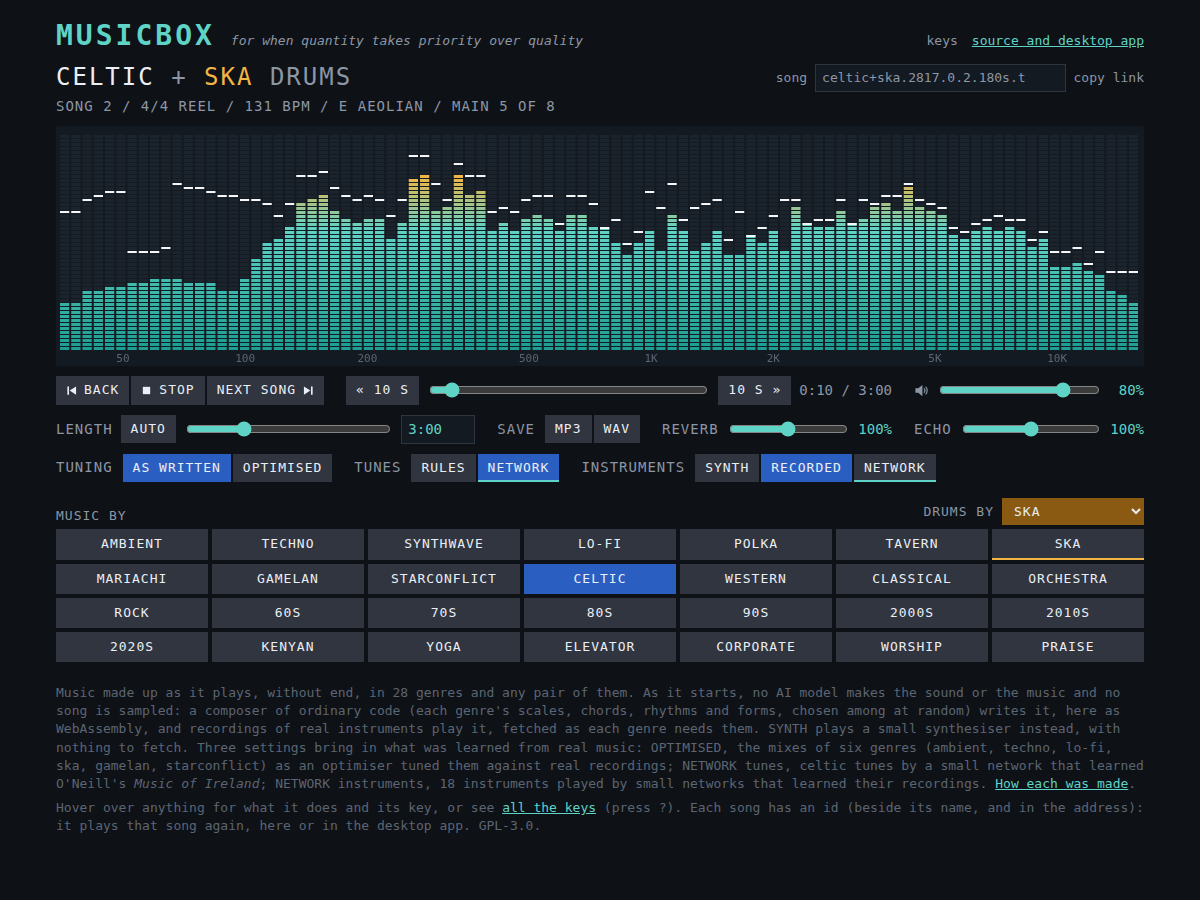
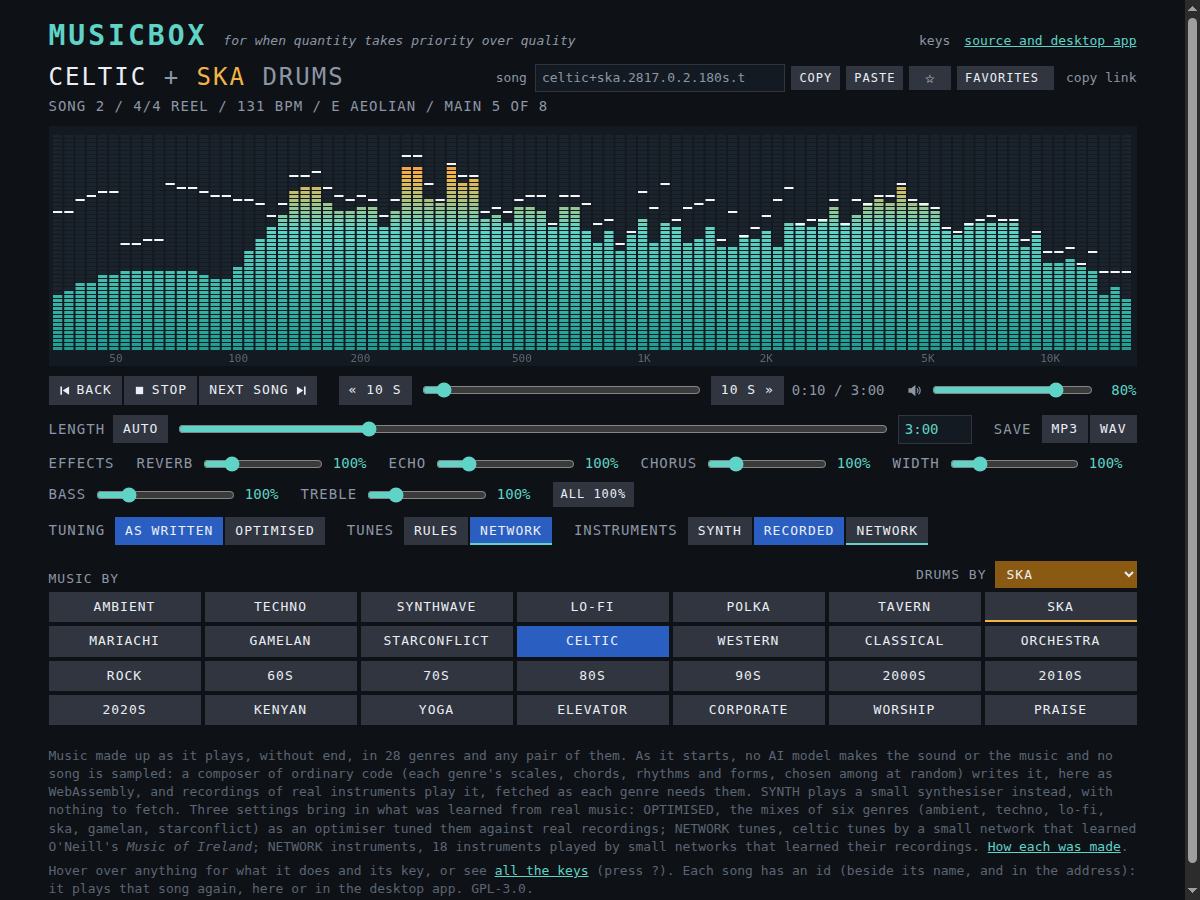
README: the six effects (a table of what 0 and past 100% do, and how loud), copying, pasting and favorites, the new keys and flags; its pictures taken again with the id's buttons, EFFECTS and the page's effects row

diff --git a/README.md b/README.md
@@ -8,7 +8,7 @@ Music made up as it plays, without end, in 28 genres and any pair of them. It pl
 
 **[Play it in your browser](https://bhoult.github.io/musicbox/)**: no install; it plays recordings of real instruments, fetched as each genre needs them, or a synthesiser with nothing to fetch.
 
-[![The browser version: celtic music with ska drums, its tunes by the network and its instruments recorded; the song's id, the equalizer, the transport, the song's bar, the volume, the length, saving, the reverb and echo, the three settings and the genre selector](docs/web.png)](https://bhoult.github.io/musicbox/)
+[![The browser version: celtic music with ska drums, its tunes by the network and its instruments recorded; the song's id with COPY, PASTE, the favorite's star and FAVORITES, the equalizer, the transport, the song's bar, the volume, the length, saving, the six effects, the three settings and the genre selector](docs/web.png)](https://bhoult.github.io/musicbox/)
 
 As it comes, no AI model makes any of the sound or the music, and no song is sampled. The music comes from a composer that is ordinary code: for each genre, rules for its scales, chords, rhythms, song forms and who plays what, and a random number generator choosing among them. It is generated at random and without end by software that an AI wrote. A genre and a seed always give the same music.
 
@@ -26,6 +26,7 @@ target/release/musicbox lo-fi --eq         # with an equalizer in the terminal
 target/release/musicbox ska --length 3:00  # each song three minutes long
 target/release/musicbox techno --volume 60 # quieter (0 to 100)
 target/release/musicbox rock --reverb 160 --echo 140   # a bigger room, and an echo on the tunes
+target/release/musicbox lo-fi --bass 200 --width 300   # twice the bass, wider than the speakers
 target/release/musicbox --export celtic reel.mp3 --seed 7 --song 2   # one song, to an MP3
 target/release/musicbox ska.2817.1.2       # a song by its id, and on from it
 target/release/musicbox --export ska.2817.1.2 ska.mp3                # a song by its id, to an MP3
@@ -43,13 +44,14 @@ The terminal shows what is playing and the keys, redrawn in place:
   song 2 · 4/4 reel · 131 bpm · C ionian · main, bar 3 of 8 · 0:07 / 3:00
   ‹ polka tavern ska mariachi gamelan starconflict celtic western classical orchestra rock 60s 70s 80s
   ←/→ genre  ↑/↓ drums  space next song  b back  , . 10 s back and on
-  s stop  r replay  x export mp3  d type a song's id  q quit
+  s stop  r replay  x export mp3  c copy its id  d v type or paste one  k keep it  q quit
   [ ] length 3:00  - + volume 100%  t type a length  e equalizer  g window
-  7 8 reverb 100%  9 0 echo 100%  (100%: the genre's own)
+  7 8 reverb 100%  9 0 echo 100%  ; ' chorus 100%  (100%: as the genre has it)
+  5 6 width 100%  1 2 bass 100%  3 4 treble 100%
   o tuning as written  m tunes rules  i instruments recorded
 ```
 
-The top line ends with the song's id ([below](#song-ids)). The third line is the genre selector: the genre writing the music is lit, and the drummer is underlined. A terminal too narrow for all 28 shows a window of them about the genre playing, ‹ marking that some come before. The song line gives the piece's number, meter and form, tempo, key and mode, its section and bar, how long it has played, and the length asked of it. The last line is how the music is made ([below](#how-it-is-made)), with a note where a choice does nothing for the genre playing (celtic alone has network tunes, for one).
+The top line ends with the song's id ([below](#song-ids)), a ★ before it when the song is one of your [favorites](#copy-paste-and-favorites). The third line is the genre selector: the genre writing the music is lit, and the drummer is underlined. A terminal too narrow for all 28 shows a window of them about the genre playing, ‹ marking that some come before. The song line gives the piece's number, meter and form, tempo, key and mode, its section and bar, how long it has played, and the length asked of it. The last line is how the music is made ([below](#how-it-is-made)), with a note where a choice does nothing for the genre playing (celtic alone has network tunes, for one).
 
 | key | |
 | --- | --- |
@@ -62,10 +64,14 @@ The top line ends with the song's id ([below](#song-ids)). The third line is the
 | R | replay: the song playing, from its start again |
 | [ / ] | each song 15 s shorter or longer (from auto: about the song's own length; below 0:30, auto again) |
 | - / + (also =) | the volume down or up, 5% a step ([below](#volume)) |
-| 7 / 8 | less or more reverb, 10% a step ([below](#reverb-and-echo)) |
-| 9 / 0 | less or more echo, 10% a step |
+| 7 / 8, 9 / 0, ; / ' | less or more reverb, echo and chorus, 10% a step ([below](#effects)) |
+| 5 / 6, 1 / 2, 3 / 4 | less or more stereo width, bass and treble, 10% a step |
+| A | the window's effects, shown or put away |
 | T | type a length: 3:30, 3.5m, 210s, or auto; Enter sets it, Esc cancels |
-| D | type a song's id: Enter plays it, Esc cancels |
+| C (also Ctrl-C in the window) | copy the song's id ([below](#copy-paste-and-favorites)) |
+| V (also Ctrl-V in the window) | play the song whose id is copied (in the terminal: type or paste it, as D) |
+| D | type a song's id (or paste it): Enter plays it, Esc cancels |
+| K | keep the song among the favorites, or let it go |
 | X | export the song playing, from its start to its end, to an MP3 in ~/Music/musicbox |
 | O | tuning: as written, or optimised |
 | M | tunes: by the rules, or by the network |
@@ -79,16 +85,18 @@ A change waits for the next bar line, or the next beat when bars are long, and t
 
 ## The window
 
-![The window: mariachi drummed by techno, on network instruments; the equalizer, the transport, the three settings, the genre selector, and the reverb, echo and volume](docs/window.png)
+![The window: mariachi drummed by techno, on network instruments; the song's id with COPY, PASTE, the favorite's star and FAVORITES, the equalizer, the transport, the three settings, the genre selector, EFFECTS and the volume](docs/window.png)
 
 `--gui` or G opens it. It has six parts:
 
-- **What is playing:** the genres and the song's id (click it to type one to play), then the terminal's song line, less the time, which the bar below shows. A genre or drummer just chosen shows at the right until the next bar brings it in.
+- **What is playing:** the genres and the song's id (click it to copy it), with COPY, PASTE, a star (lit when the song is a favorite: click to keep it or let it go) and FAVORITES at the name's right ([below](#copy-paste-and-favorites)), then the terminal's song line, less the time, which the bar below shows. A genre or drummer just chosen shows at the line's right until the next bar brings it in.
 - **Where in the song:** a bar to click, or drag and let go, to go to a point in the song, between buttons 10 s back and on, and the time played of the song's length.
 - **The equalizer:** what the speakers are playing, in LED bars from 35 Hz to 16 kHz with peak markers. Each bar is the loudest part of its band in an 85 ms window, tilted up 3 dB an octave so the highs show.
 - **The transport and the length:** BACK, STOP / START, NEXT SONG and EXPORT MP3 (R replays the song, as BACK does after its first seconds), then the songs' length: AUTO (each song as long as it was written), a slider from 0:30 to 10:00 (drag it, click it, or turn the mouse wheel over it), and a field to type a length into (click it, or press T).
 - **How it is made:** TUNING (AS WRITTEN, OPTIMISED), TUNES (RULES, NETWORK) and INSTRUMENTS (SYNTH, RECORDED, NETWORK), as O, M and I have them. A choice that does something for the genre playing is underlined in the accent colour.
-- **The genre selector:** all 28 genres in one grid: click one to write the music, or right-click it to put it on drums (it is underlined there). DRUMS BY, at the right of the grid's heading, steps the drummer with its arrows, as Up and Down do; it says ITS OWN when the genre writing the music plays its own drums, and a click on the drummer's name goes back to them. Below are buttons for FULLSCREEN (F or F11), CLOSE (Esc), QUIT (Q) and KEYS (? or F1), and the VOLUME: a slider from 0 to 100% (drag it, click it, or turn the mouse wheel over it).
+- **The genre selector:** all 28 genres in one grid: click one to write the music, or right-click it to put it on drums (it is underlined there). DRUMS BY, at the right of the grid's heading, steps the drummer with its arrows, as Up and Down do; it says ITS OWN when the genre writing the music plays its own drums, and a click on the drummer's name goes back to them. Below are buttons for FULLSCREEN (F or F11), CLOSE (Esc), QUIT (Q), KEYS (? or F1) and EFFECTS (A: underlined when one is turned), and the VOLUME: a slider from 0 to 100% (drag it, click it, or turn the mouse wheel over it).
+
+EFFECTS opens the six [effects](#effects) over the top of the equalizer, a slider each with ALL 100% to put them back; FAVORITES opens the list of favorites in its place, a click on one playing it and its X letting it go. Esc puts either away.
 
 The keys work in the window too. The buttons leave them out: rest the mouse on anything and it says what it does and its keys, and ? lists them all. Closing the window leaves the music playing in the terminal. Without a terminal (a launcher, say), closing it quits.
 
@@ -106,9 +114,22 @@ Stop fades out in 30 ms and holds the music where it is; start goes on from ther
 
 `-` and `+` (or `=`) turn it down and up, 5% a step, from 0 to 100%; the window and the page have a slider for it, and `--volume 60` starts at 60%. The scale is cubic, as PulseAudio's volumes are, so each step sounds about as much louder: 50% is an eighth of the full level (−18 dB). A change eases in over the next buffer (85 ms), with no click. It is how loud it plays and nothing more: the equalizer shows the music at its full level, and an export is at full level whatever the volume. The page remembers its volume in the browser; the desktop app starts at 100% (or `--volume`) each time.
 
-## Reverb and echo
+## Effects
 
-Each genre has a reverb and many an echo of their own, and REVERB and ECHO (sliders in the window and on the page, `7` `8` and `9` `0`, `--reverb` and `--echo`) turn them from 0 to 200% of what the genre has. 100% is the genre as it comes, the music to the bit as it was without them; 0 is none. Past 100% the reverb is wetter, four times at 200%, and its tail longer (the genres' own reverbs are quiet: 25 to 35 dB under the music in rock, ska and celtic, which is drier than most records); the echo adds one of its own, three steps behind (a dotted eighth, in time with the song), repeating the lead, keys, arpeggio and bells, its repeats longer the more of it. They change the room, not the music: a song's id stays the same, and an export (X, SAVE, `--export`) is made with them, its tag giving the flags that make it again. The page remembers them in the browser; the desktop app starts at 100% (or the flags) each time.
+Six effects turn what you hear from 0 to 500%, each 10% a step: sliders in the window (EFFECTS, or A) and on the page, the keys below, and flags. 100% is the genre as it comes, the music to the bit as it was without them; 0 is none.
+
+| effect | keys | flag | 0% | past 100% |
+| --- | --- | --- | --- | --- |
+| reverb | `7` `8` | `--reverb` | none | wetter, four times at 200%, its tail longer; at 500% a cathedral's |
+| echo | `9` `0` | `--echo` | none | an echo of its own, three steps behind (a dotted eighth, in time with the song), repeating the lead, keys, arpeggio and bells, its repeats longer the more of it |
+| chorus | `;` `'` | `--chorus` | none | the genre's own (an 80s polysynth's, a pad's) and copies of the keys, pads, guitars, tunes and a little of the bass, swung a little out of tune, wider the more of it |
+| width | `5` `6` | `--width` | mono | the sides louder than the middle: wider than the speakers |
+| bass | `1` `2` | `--bass` | none below about 150 Hz | twice as loud at 200%, five times at 500% |
+| treble | `3` `4` | `--treble` | none above about 3.5 kHz (dull) | twice as loud at 200%, five times at 500% |
+
+The genres' own reverbs are quiet (25 to 35 dB under the music in rock, ska and celtic, drier than most records), and some genres have far more than others, so past 200% the reverb is held to 6 dB over the music and the whole kept as loud as it was at 200%: ambient at 500% is a wash, and rock a hall. The width, bass and treble change the balance, not the loudness: the whole is kept as loud as it came in. The reverb and echo add a little; with all six at 500%, the four genres measured came out 1.4 to 1.9 times as loud as at 100%.
+
+They change the room, not the music: a song's id stays the same, and an export (X, SAVE, `--export`) is made with them, its tag giving the flags that make it again. The page remembers them in the browser; the desktop app starts at 100% (or the flags) each time.
 
 ## Song ids
 
@@ -117,6 +138,8 @@ Every song has an id, shown at the top of the terminal, the window and the page:
 **How exactly.** The networks have fixed weights and their own seeded dice, so nothing in the music is left to chance: a song from its id has the same notes, form, instruments and settings, on the desktop and in the browser alike. The first song of a run comes back to the byte. A later one has the same notes, with small differences in the sound (which recording of a drum plays, the noise) when gone to from its id; an export from its id (`--export ID`, the page's SAVE) plays the songs before it in its run to get there, and is the same to the byte as the song as it first played, in the same build. An id ending in `~` was made after the length changed earlier in its run, or while it played: the songs before it were steered to another length, so its notes may come out otherwise.
 
 **Back and forward.** The songs played are kept in order, the last twelve as each began. B plays the song playing from its start, or, in its first 3 seconds, the one before it; after going back, the next song is the one that came next (as it played, with its length and settings), until another genre or song is chosen. These come back as they played, at once.
+
+**Copy, paste and favorites.** COPY (C, or a click on the id) puts the song's id on the clipboard; PASTE (V) plays the song whose id is there. What is pasted can be the id, a link to the page playing it (COPY LINK makes one), or a command with it in (`musicbox ska.2817.1.2`). On the page Ctrl-V anywhere but a field plays it too, and Ctrl-C with nothing chosen copies the id; in the window Ctrl-C and Ctrl-V do, and Ctrl-V pastes into the field D opens. The terminal copies by asking the terminal (OSC 52, which most allow); to paste there, press D or V and paste. The star (K) keeps the song among the favorites, or lets it go; FAVORITES lists them, a click playing one. The desktop app keeps them in `~/.local/share/musicbox/favorites.txt`, an id a line with the genre after it (edit it as you like: the first word of a line is its id, and the rest is kept); the page keeps its own in the browser, and its COPY ALL copies them, a line each, to paste into that file.
 
 **A point in a song.** The window's and the page's bar, and , and . (10 s back and on), go to a point in the song playing: the bars before it are composed again from the song's start, not played, so the music goes on at once from the start of the bar then, with a short crossfade.
 
@@ -133,7 +156,7 @@ target/release/musicbox --export GENRE OUT.mp3 --seed SEED --song K [--length L]
 
 ## In the browser
 
-[bhoult.github.io/musicbox](https://bhoult.github.io/musicbox/) is the same composer and synthesiser compiled to WebAssembly (1.5 MB): the genres and mixes, the equalizer, the genre selector, the transport with back and forward, the bar to go to a point in the song, the length, the volume, the reverb and echo, the three settings, song ids and the keys as the window has them. The genres are one grid, as in the window, with the drummer chosen from a list beside its heading (or by right-clicking a genre). The song's id is in a field beside its name: paste or type one there and press Enter to play it, or COPY LINK for a link that plays it. Whatever the mouse rests on says what it does and its keys, and ? lists them all. SAVE MP3 (X) saves an MP3 of the song playing, named by its id, with the desktop's tag; WAV (shift-X) saves a WAV. The page encodes it with LAME too, compiled to WebAssembly (`docs/app/mp3/`, 133 kB, fetched with the first export), at a constant 192 kb/s: that build writes no info frame, which a VBR file needs for players to tell its length. The engine runs in a Web Worker a few tenths of a second ahead of an AudioWorklet that plays it, so writing a bar or starting a song never stalls the sound.
+[bhoult.github.io/musicbox](https://bhoult.github.io/musicbox/) is the same composer and synthesiser compiled to WebAssembly (1.5 MB): the genres and mixes, the equalizer, the genre selector, the transport with back and forward, the bar to go to a point in the song, the length, the volume, the six effects, the three settings, song ids, favorites and the keys as the window has them. The genres are one grid, as in the window, with the drummer chosen from a list beside its heading (or by right-clicking a genre). The song's id is in a field beside its name, with COPY, PASTE, the star, FAVORITES and COPY LINK (a link that plays it); type an id into the field and press Enter, or press Ctrl-V anywhere, to play it. Whatever the mouse rests on says what it does and its keys, and ? lists them all. SAVE MP3 (X) saves an MP3 of the song playing, named by its id, with the desktop's tag; WAV (shift-X) saves a WAV. The page encodes it with LAME too, compiled to WebAssembly (`docs/app/mp3/`, 133 kB, fetched with the first export), at a constant 192 kb/s: that build writes no info frame, which a VBR file needs for players to tell its length. The engine runs in a Web Worker a few tenths of a second ahead of an AudioWorklet that plays it, so writing a bar or starting a song never stalls the sound.
 
 It plays recorded instruments, as the desktop does: before the first song it fetches the recordings its genre plays, and on a change of genre or drummer those of the new one, before it comes in. SYNTH (or I) plays the synthesiser instead, with nothing to fetch, and so does the page when the recordings will not load. They are the desktop's recordings made mono at 48 kHz and compressed to Opus at 48 kb/s: 4 to 35 MB a genre, and 68 MB for all 28, against the desktop's gigabyte. NETWORK instruments fetch their networks as well (4.2 MB), and network tunes fetch celtic's (0.8 MB). Each is fetched once, when it is first needed. The recordings are in this repository, in `docs/samples/`, with their sources and licences (`README.md`, `SOURCES.md`, `licenses/`).
 
@@ -264,7 +287,8 @@ uv run tools/validate/balance.py             # the band styles' balance, a chann
 | `src/spectrum.rs` | the equalizer's FFT and bars |
 | `src/term.rs` | the command line's display and keys |
 | `src/gui.rs`, `src/font.rs` | the window, and its 5x7 font (from FRAKTAL256) |
-| `src/sdl.rs` | the SDL2 calls: the sound device and the window |
+| `src/sdl.rs` | the SDL2 calls: the sound device, the window and the clipboard |
+| `src/favorites.rs` | the favorites, and finding a song's id in what was pasted |
 | `src/mp3.rs` | MP3s, by LAME's library, loaded when wanted |
 | `src/net.rs` | the network instruments: the networks, and the oscillators and noise that play them |
 | `src/tunes.rs` | the tunes network: the GRU and how it writes a part |
@@ -274,6 +298,7 @@ uv run tools/validate/balance.py             # the band styles' balance, a chann
 | `tools/get-samples.sh`, `tools/samples_manifest.py` | fetch and prepare the recorded instruments |
 | `tools/web-samples.sh` | the recorded instruments for the page, as Opus |
 | `tools/stamp-page.sh` | puts a hash of the page's files on the addresses it loads them from |
+| `tools/install.sh`, `tools/musicbox.svg` | installs it for the user, with a launcher and its icon |
 | `docs/samples/` | what it made: the page's recordings, with their sources and licences |
 | `tools/neural/` | the networks' training: `tunes.py` and `TUNES.md` (its sources and credits), `voices.py` |
 | `tools/tune/` | the optimiser |
